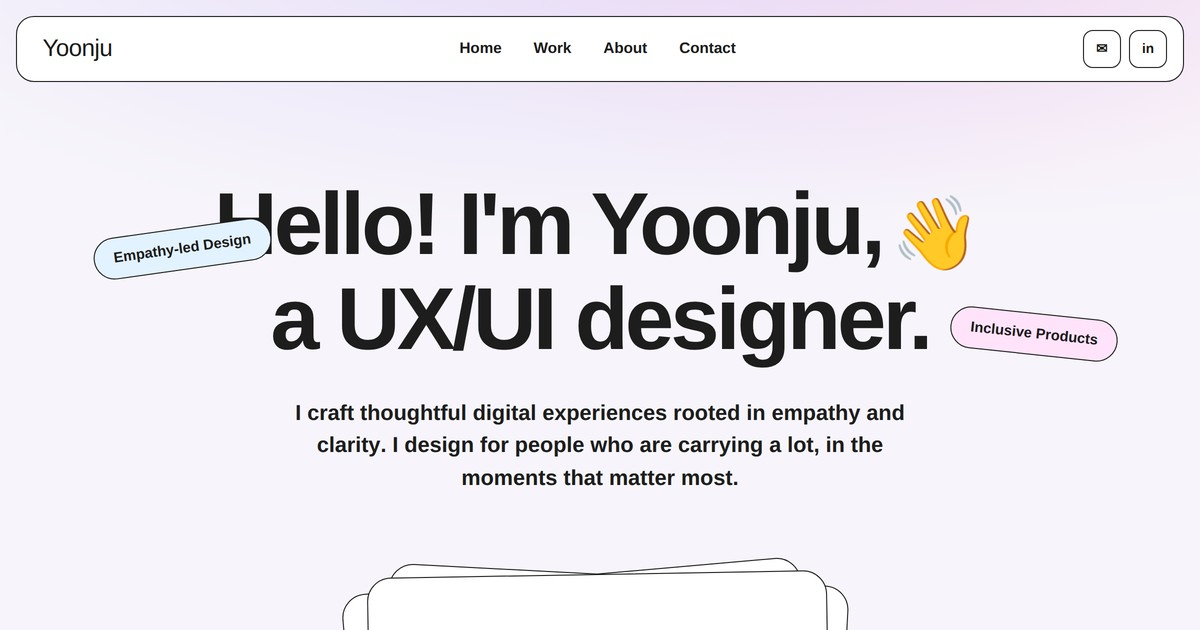
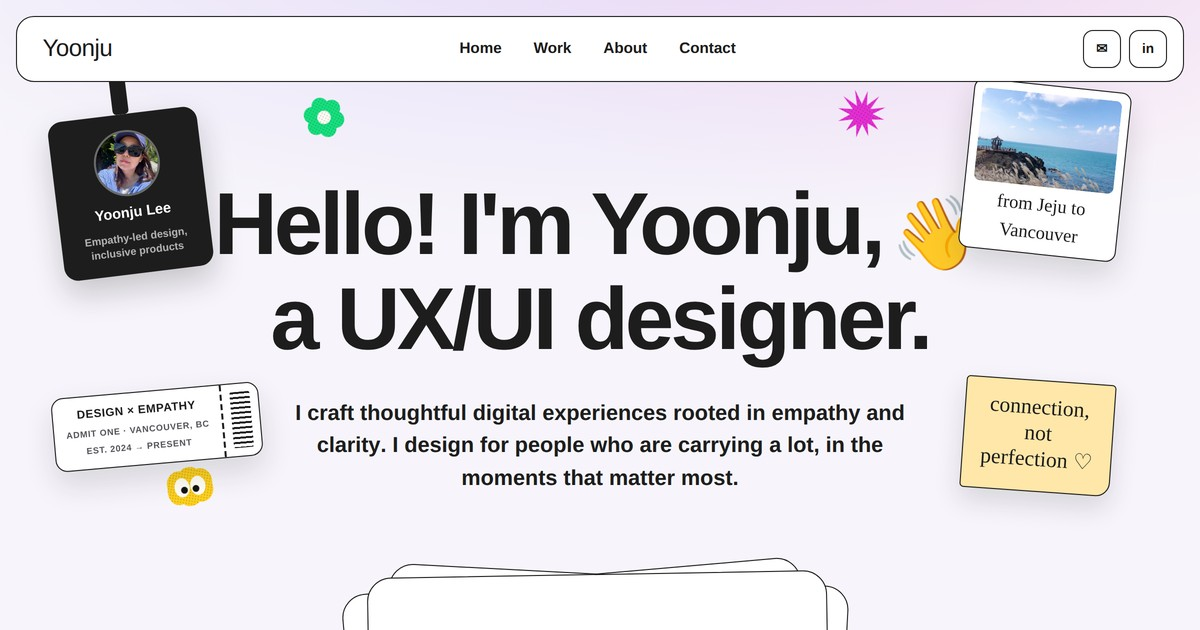
Turn the hero into a desk-collage of real objects
Replace the two label pills with personal artifacts in the Yan Liu
style: an ID badge on a lanyard with Yoonju's photo and design ethos, a
polaroid from Jeju with a handwritten caption, a DESIGN x EMPATHY ticket
stub with a barcode, and a sticky note reading connection, not
perfection. Keep the big greeting headline for instant readability,
shrink the halftone doodles to accents, hide the objects on small
screens, and refresh the social preview image.

Claude-Session: https://claude.ai/code/session_012FKYWhXaN23kbCPdVXWmde

diff --git a/src/App.css b/src/App.css
@@ -161,14 +161,156 @@ main {
   font-weight: 800;
 }
 
-.hero-sticker {
+/* Desk-collage objects scattered around the greeting. */
+.hero-obj {
   position: absolute;
-  padding: 0.55rem 1.2rem;
-  border: 1px solid var(--border);
-  border-radius: 999px;
+  z-index: 2;
+  transition: transform 0.3s ease;
+}
+
+.hero-obj:hover {
+  transform: rotate(0deg) scale(1.05) !important;
+}
+
+/* ID badge on a lanyard */
+.obj-badge {
+  left: 2.5%;
+  top: 1%;
+  transform: rotate(-7deg);
+  display: flex;
+  flex-direction: column;
+  align-items: center;
+}
+
+.badge-strap {
+  width: 16px;
+  height: 44px;
+  background: var(--ink);
+  border-radius: 0 0 4px 4px;
+}
+
+.idcard {
+  width: 150px;
+  background: var(--ink);
+  color: var(--white);
+  border-radius: 14px;
+  padding: 1rem 0.9rem 0.9rem;
+  text-align: center;
+  display: flex;
+  flex-direction: column;
+  align-items: center;
+  gap: 0.4rem;
+  box-shadow: 0 14px 30px rgba(29, 29, 29, 0.22);
+}
+
+.idcard img {
+  width: 66px;
+  height: 66px;
+  border-radius: 50%;
+  object-fit: cover;
+  border: 2px solid rgba(255, 255, 255, 0.35);
+}
+
+.idcard strong {
   font-size: 0.9rem;
+  font-weight: 800;
+}
+
+.idcard span {
+  font-size: 0.66rem;
+  font-weight: 600;
+  color: rgba(255, 255, 255, 0.65);
+  line-height: 1.35;
+}
+
+/* Polaroid snapshot */
+.obj-polaroid {
+  right: 4.5%;
+  top: 4%;
+  transform: rotate(6deg);
+  margin: 0;
+  width: 158px;
+  background: var(--white);
+  border: 1px solid var(--border);
+  border-radius: 10px;
+  padding: 0.5rem 0.5rem 0.4rem;
+  box-shadow: 0 14px 30px rgba(29, 29, 29, 0.16);
+}
+
+.obj-polaroid img {
+  width: 100%;
+  display: block;
+  border-radius: 6px;
+}
+
+.obj-polaroid figcaption {
+  text-align: center;
+  font-family: 'Caveat', cursive;
+  font-size: 1.15rem;
+  padding-top: 0.2rem;
+}
+
+/* Ticket stub */
+.obj-ticket {
+  left: 2.5%;
+  top: 68%;
+  transform: rotate(-5deg);
+  display: flex;
+  background: var(--white);
+  border: 1px solid var(--border);
+  border-radius: 12px;
+  overflow: hidden;
+  box-shadow: 0 14px 30px rgba(29, 29, 29, 0.14);
+}
+
+.ticket-main {
+  display: flex;
+  flex-direction: column;
+  gap: 0.2rem;
+  padding: 0.65rem 0.75rem;
+  border-right: 2px dashed var(--border);
+}
+
+.ticket-main strong {
+  font-size: 0.72rem;
+  font-weight: 900;
+  letter-spacing: 0.04em;
+}
+
+.ticket-main span {
+  font-size: 0.55rem;
   font-weight: 700;
-  white-space: nowrap;
+  text-transform: uppercase;
+  letter-spacing: 0.06em;
+  color: var(--muted);
+}
+
+.ticket-barcode {
+  width: 20px;
+  margin: 0.5rem;
+  background: repeating-linear-gradient(
+    180deg,
+    var(--ink) 0 2px,
+    transparent 2px 5px
+  );
+  border-radius: 2px;
+}
+
+/* Handwritten sticky note */
+.obj-note {
+  right: 5.5%;
+  top: 66%;
+  transform: rotate(4deg);
+  width: 150px;
+  padding: 0.9rem 1rem 1.1rem;
+  background: var(--tint-yellow);
+  border: 1px solid var(--border);
+  border-radius: 4px 4px 14px 4px;
+  font-family: 'Caveat', cursive;
+  font-size: 1.35rem;
+  line-height: 1.2;
+  text-align: center;
+  box-shadow: 0 12px 26px rgba(29, 29, 29, 0.14);
 }
 
 /* Halftone sticker doodles scattered around the hero. */
@@ -179,24 +321,24 @@ main {
 }
 
 .doodle-star {
-  width: 84px;
-  right: 12%;
-  top: 8%;
+  width: 52px;
+  right: 25%;
+  top: 5%;
   transform: rotate(14deg);
 }
 
 .doodle-eyes {
-  width: 96px;
-  left: 9%;
-  top: 58%;
+  width: 56px;
+  left: 12%;
+  top: 86%;
   transform: rotate(-9deg);
   animation-delay: -3s;
 }
 
 .doodle-flower {
-  width: 76px;
-  right: 6%;
-  top: 74%;
+  width: 48px;
+  left: 24%;
+  top: 7%;
   transform: rotate(10deg);
   animation-delay: -6s;
 }
@@ -215,18 +357,6 @@ main {
   .hero-doodle {
     animation: none;
   }
-}
-
-.sticker-left {
-  left: 4%;
-  top: 17%;
-  transform: rotate(-8deg);
-}
-
-.sticker-right {
-  right: 5%;
-  top: 52%;
-  transform: rotate(6deg);
 }
 
 /* ───────────── Deck ───────────── */
@@ -2060,7 +2190,7 @@ body.case-open {
     display: none;
   }
 
-  .hero-sticker {
+  .hero-obj {
     display: none;
   }
 

diff --git a/src/App.jsx b/src/App.jsx
@@ -89,15 +89,31 @@ function AvailableBadge() {
 function Hero() {
   return (
     <section id="home" className="hero">
-      {hero.stickers.map((sticker) => (
-        <span
-          key={sticker.label}
-          className={`hero-sticker sticker-${sticker.side} tint-${sticker.tint}`}
-          aria-hidden="true"
-        >
-          {sticker.label}
-        </span>
-      ))}
+      <div className="hero-obj obj-badge" aria-hidden="true">
+        <span className="badge-strap" />
+        <div className="idcard">
+          <img src={hero.badge.photo} alt="" />
+          <strong>{hero.badge.name}</strong>
+          <span>{hero.badge.tagline}</span>
+        </div>
+      </div>
+
+      <figure className="hero-obj obj-polaroid" aria-hidden="true">
+        <img src={hero.polaroid.src} alt="" />
+        <figcaption>{hero.polaroid.caption}</figcaption>
+      </figure>
+
+      <div className="hero-obj obj-ticket" aria-hidden="true">
+        <div className="ticket-main">
+          <strong>{hero.ticket.title}</strong>
+          <span>{hero.ticket.row1}</span>
+          <span>{hero.ticket.row2}</span>
+        </div>
+        <span className="ticket-barcode" />
+      </div>
+
+      <div className="hero-obj obj-note" aria-hidden="true">{hero.note}</div>
+
       <img
         className="hero-doodle doodle-star"
         src="/doodle-star.svg"

diff --git a/src/content.js b/src/content.js
@@ -33,15 +33,26 @@ export const socials = [
   },
 ]
 
-// Hero — big greeting headline + floating sticker pills
+// Hero — big greeting headline + a desk-collage of real objects around it.
 export const hero = {
   titleTop: "Hello! I'm Yoonju,",
   titleBottom: 'a UX/UI designer.',
   sub: 'I craft **thoughtful digital experiences** rooted in **empathy** and **clarity**. I design for people who are carrying a lot, in the moments that matter most.',
-  stickers: [
-    { label: 'Empathy-led Design', tint: 'blue', side: 'left' },
-    { label: 'Inclusive Products', tint: 'pink', side: 'right' },
-  ],
+  badge: {
+    photo: '/images/about-1.jpg',
+    name: 'Yoonju Lee',
+    tagline: 'Empathy-led design, inclusive products',
+  },
+  polaroid: {
+    src: '/images/funfact-jeju.jpg',
+    caption: 'from Jeju to Vancouver',
+  },
+  ticket: {
+    title: 'DESIGN × EMPATHY',
+    row1: 'Admit one · Vancouver, BC',
+    row2: 'EST. 2024 → PRESENT',
+  },
+  note: 'connection, not perfection ♡',
 }
 
 // Stacked card deck under the hero — quick links to main sections
